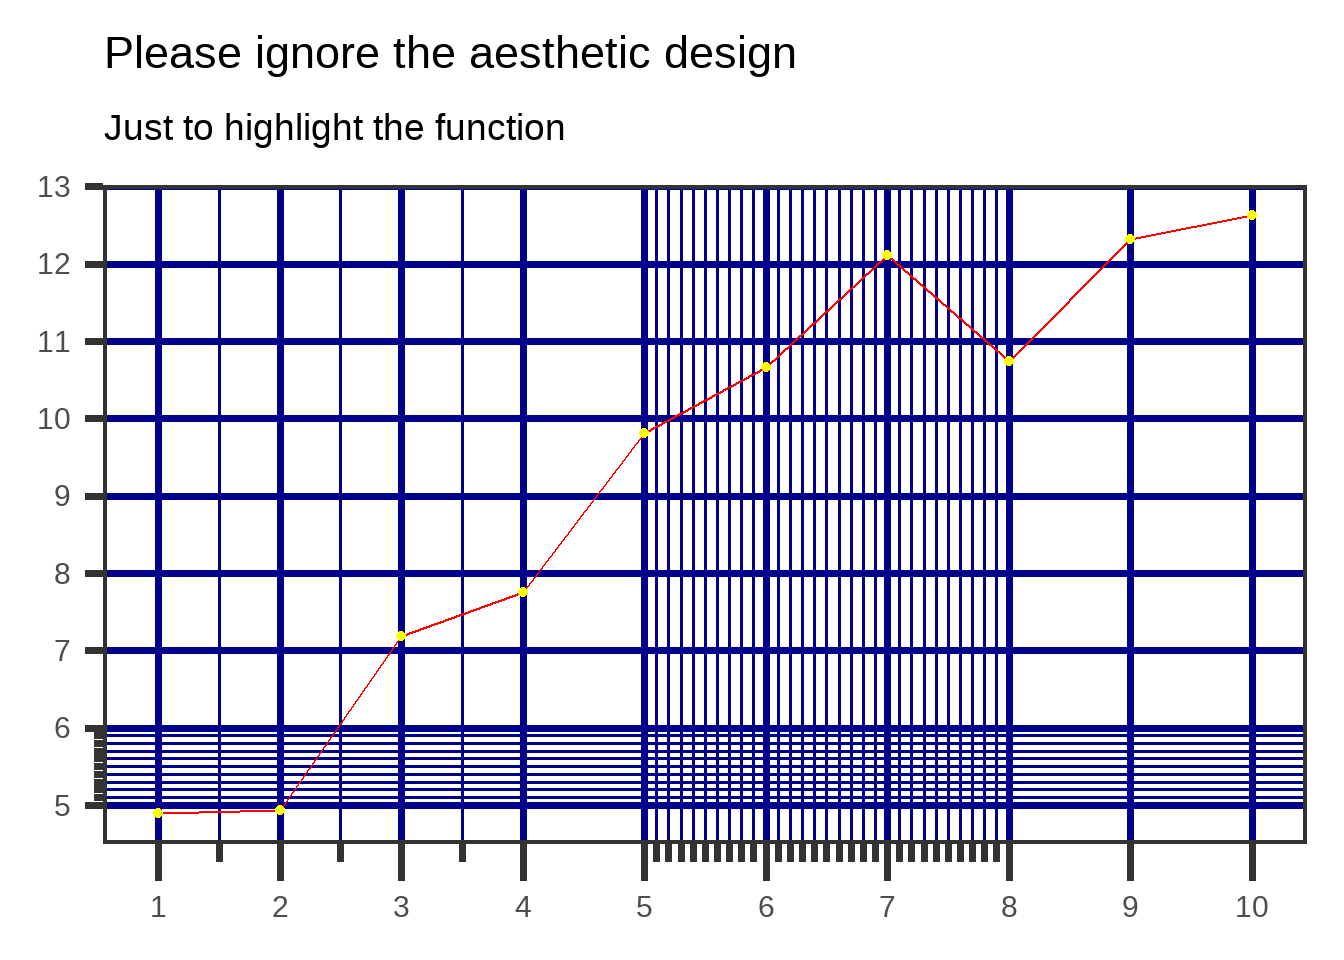
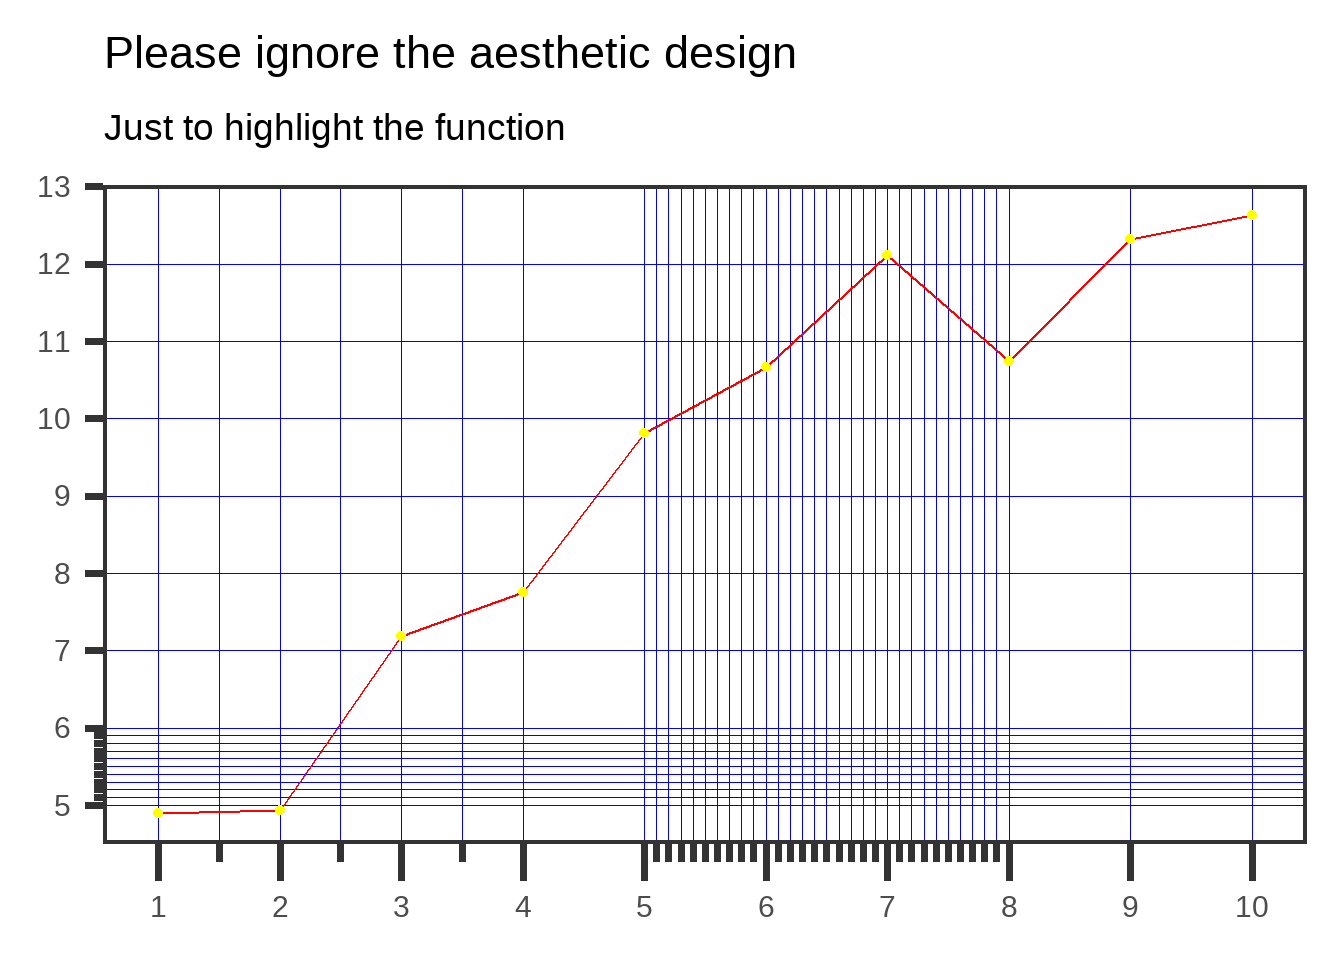
update

Changed region(s): [[0.0625, 0.1875, 0.9688, 0.875]]

diff --git a/content/post/2022-10-31-minor-breaks-in-ggplot2-ggh4x/index.html b/content/post/2022-10-31-minor-breaks-in-ggplot2-ggh4x/index.html
@@ -66,6 +66,6 @@ df1 &lt;- tibble(
   theme_bw(28) +
   theme(axis.ticks.length.x = unit(0.5, &quot;cm&quot;)) + # set ticks length
   theme(ggh4x.axis.ticks.length.minor = rel(.5))+ # set minor / major ticks length ratio
-  theme(panel.grid = element_line(color = &quot;blue4&quot;))</code></pre>
+  theme(panel.grid = element_line(color = &quot;blue&quot;,size=.3))</code></pre>
 <p><img src="{{< blogdown/postref >}}index_files/figure-html/unnamed-chunk-4-1.png" width="672" /></p>
 </div>
